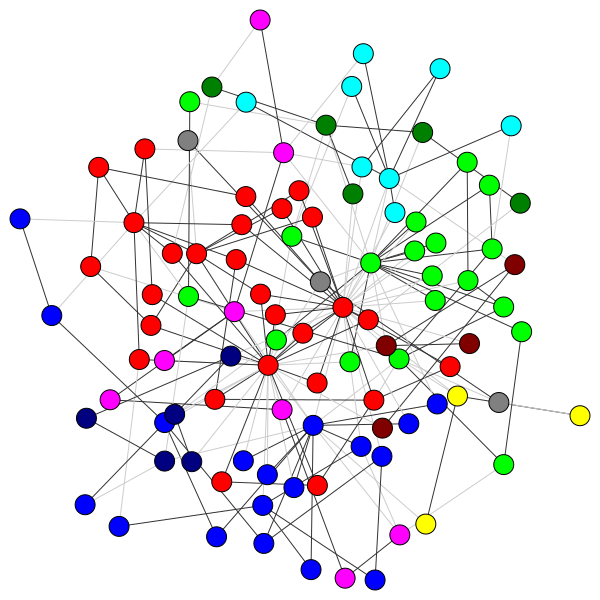
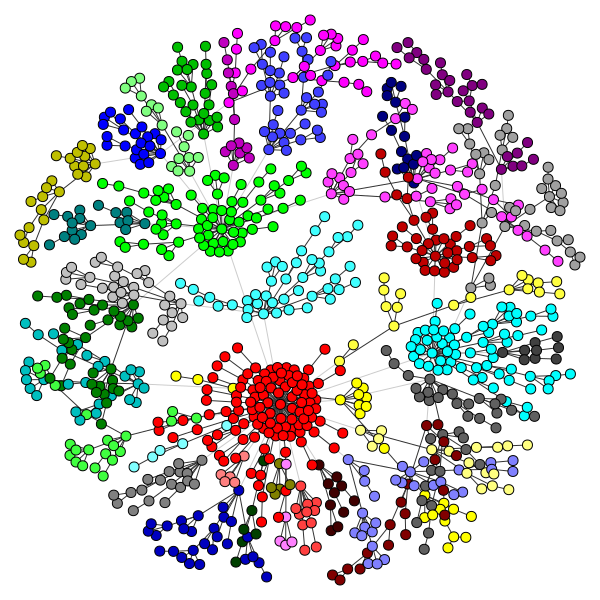
Latest changes
Includes modularity and no of clusters

diff --git a/BarabasiGraph/communityDetectionOnBarabasiGraph.py b/BarabasiGraph/communityDetectionOnBarabasiGraph.py
@@ -1,23 +1,51 @@
 import igraph
 
 
-graph = igraph.Graph.Barabasi(100, 2)
+graph = igraph.Graph.Barabasi(1000, 1)
+#graph.vs["label"] = range(1000)
+
+visual_style = {}
+visual_style["edge_curved"] = False
+visual_style["vertex_color"] = "#95D2CB"
+visual_style["vertex_size"] = 10
+visual_style["vertex_label_size"] = 5
 
 #igraph.summary(graph)
-igraph.plot(graph,"barabasi.png")
+igraph.plot(graph,"barabasiGraph.png", **visual_style)
+
+visual_style1 = {}
+visual_style1["edge_curved"] = False
+visual_style1["vertex_size"] = 10
+visual_style1["vertex_label_size"] = 5
+
 
 #print(communities)
 louvainCommunity = graph.community_multilevel()
-igraph.plot(louvainCommunity, "LouvainOnBarabasi.png")
+#print louvainCommunity
+print "No of community = {}".format(louvainCommunity.cluster_graph().vcount())
+print "Modularity of communities detected by Louvain Algorithm on the Albert-Barabasi model =  {}".format(louvainCommunity.modularity)
+igraph.plot(louvainCommunity, "LouvainOnBarabasi.png", **visual_style1)
 
-girvanNewmanCommunity = graph.community_edge_betweenness()
-igraph.plot(girvanNewmanCommunity.as_clustering(), "GirvanNewmanOnBarabasi.png")
+girvanNewmanCommunity = graph.community_edge_betweenness().as_clustering()
+#print girvanNewmanCommunity
+print "No of community = {}".format(girvanNewmanCommunity.cluster_graph().vcount())
+print "Modularity of communities detected by Girvan-Newman Algorithm on the Albert-Barabasi model  =  {}".format(girvanNewmanCommunity.modularity)
+igraph.plot(girvanNewmanCommunity, "GirvanNewmanOnBarabasi.png", **visual_style1)
 
 labelPropagationCommunity = graph.community_label_propagation()
-igraph.plot(labelPropagationCommunity, "LabelPropagationOnBarabasi.png")
+#print labelPropagationCommunity
+print "No of community = {}".format(labelPropagationCommunity.cluster_graph().vcount())
+print "Modularity of communities detected by Label Propagation Algorithm on the Albert-Barabasi model =  {}".format(labelPropagationCommunity.modularity)
+igraph.plot(labelPropagationCommunity, "LabelPropagationOnBarabasi.png", **visual_style1)
 
-fastGreedyCommunity = graph.community_fastgreedy()
-igraph.plot(fastGreedyCommunity.as_clustering(), "FastGreedyOnBarabasi.png")
+fastGreedyCommunity = graph.community_fastgreedy().as_clustering()
+#print fastGreedyCommunity
+print "No of community = {}".format(fastGreedyCommunity.cluster_graph().vcount())
+print "Modularity of communities detected by Fast-greedy Algorithm on the Albert-Barabasi model =  {}".format(fastGreedyCommunity.modularity)
+igraph.plot(fastGreedyCommunity, "FastGreedyOnBarabasi.png", **visual_style1)
 
-randomWalkCommunity = graph.community_walktrap()
-igraph.plot(randomWalkCommunity.as_clustering(), "RandomWalkOnBarabasi.png")
+randomWalkCommunity = graph.community_walktrap().as_clustering()
+#print randomWalkCommunity
+print "No of community = {}".format(randomWalkCommunity.cluster_graph().vcount())
+print "Modularity of communities detected by Random walk Algorithm on the Albert-Barabasi model =  {}".format(randomWalkCommunity.modularity)
+igraph.plot(randomWalkCommunity, "RandomWalkOnBarabasi.png", **visual_style1)
